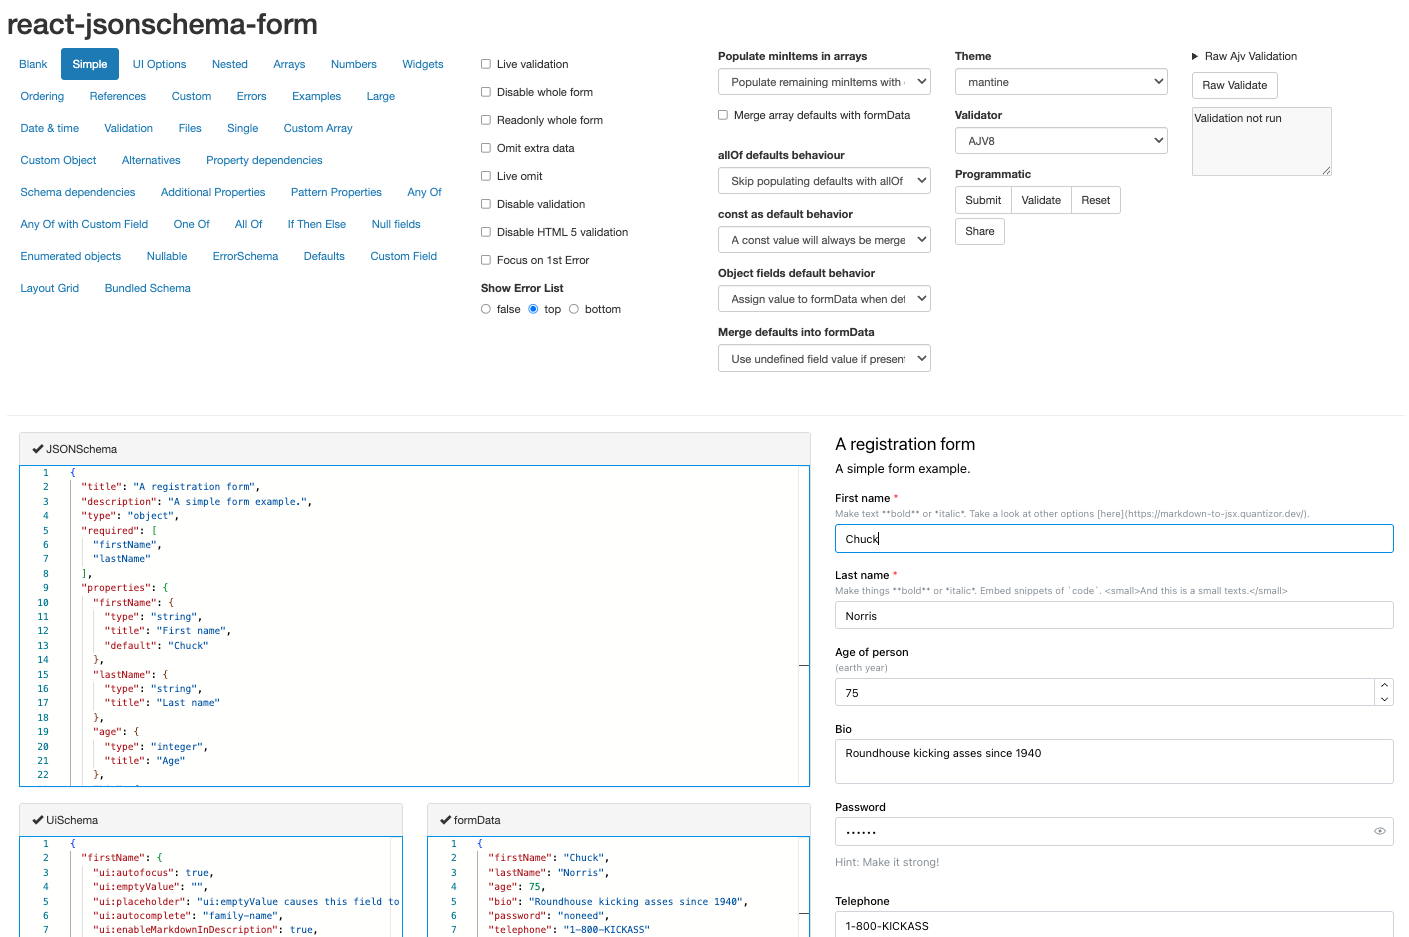
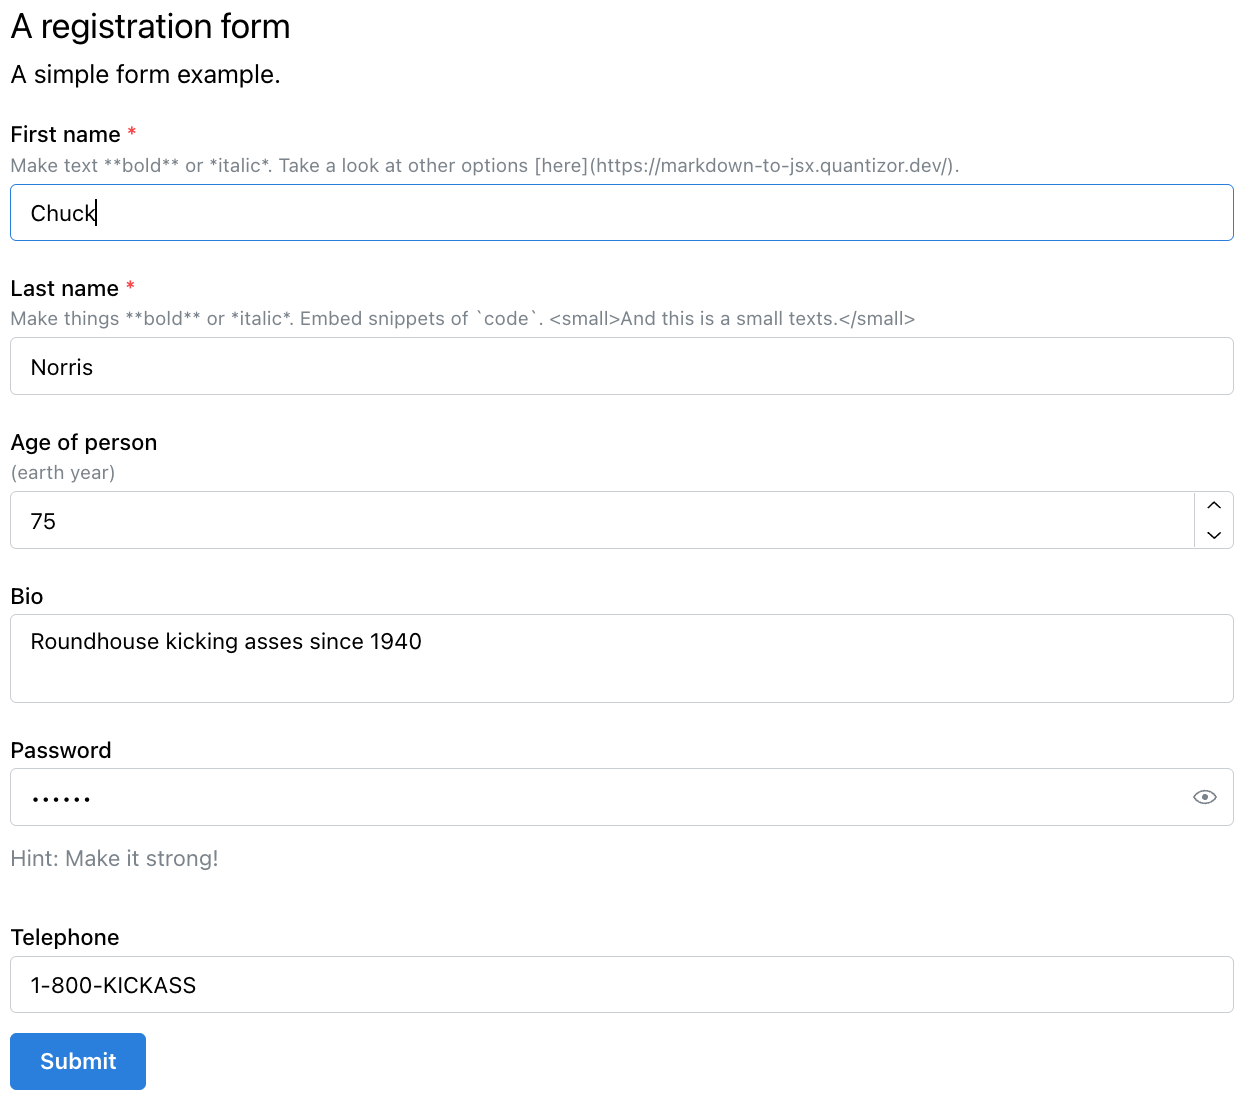
- Updated screenshots to remove playground controls and to make sure all themes showed them in the README

diff --git a/packages/shadcn/README.md b/packages/shadcn/README.md
@@ -20,11 +20,6 @@
     <a href="https://github.com/rjsf-team/react-jsonschema-form/issues">Request Feature</a>
   </p>
 
-
-<p align="center">
-<img src="https://github.com/tuanphung2308/rjsf-shadcn-css/blob/main/shadcn-demo.png?raw=true" alt="Logo" width="720" height="240">
-</p>
-
 <!-- TABLE OF CONTENTS -->
 
 ## Table of Contents
@@ -44,6 +39,8 @@
 ## About The Project
 
 Exports `shadcn` theme, fields and widgets for `react-jsonschema-form`.
+
+[![product-screenshot](./screenshot.png)](https://rjsf-team.github.io/@rjsf/shadcn)
 
 [Live demo](https://react-jsonschema-form-shadcn-boilerplate.vercel.app/)
 

diff --git a/packages/daisyui/README.md b/packages/daisyui/README.md
@@ -12,8 +12,7 @@ This package integrates [DaisyUI](https://daisyui.com/), [Tailwind CSS](https://
 
 ## Screenshots
 
-![DaisyUI Form Example 1](daisy-screenshot1.png)
-![DaisyUI Form Example 2](daisy-screenshot2.png)
+[<img src="./screenshot.png" alt="product-screenshot" width="800" />](https://rjsf-team.github.io/@rjsf/daisyui)
 
 ## Features
 

diff --git a/packages/mui/README.md b/packages/mui/README.md
@@ -47,9 +47,9 @@
 
 ## About The Project
 
-[![@rjsf/mui Screen Shot][product-screenshot]](https://rjsf-team.github.io/@rjsf/mui)
-
 Exports `MUI` version 5 theme, fields, and widgets for `react-jsonschema-form`.
+
+[<img src="./screenshot.png" alt="product-screenshot" width="800" />](https://rjsf-team.github.io/@rjsf/mui)
 
 ### Built With
 

diff --git a/packages/chakra-ui/README.md b/packages/chakra-ui/README.md
@@ -48,7 +48,7 @@
 
 ## About The Project
 
-[![@rjsf/chakra-ui Screen Shot][product-screenshot]](https://rjsf-team.github.io/@rjsf/chakra-ui)
+[<img src="./screenshot.png" alt="product-screenshot" width="800" />](https://rjsf-team.github.io/@rjsf/chakra-ui)
 
 Exports `chakra-ui` theme, fields and widgets for `react-jsonschema-form`.
 

diff --git a/packages/react-bootstrap/README.md b/packages/react-bootstrap/README.md
@@ -41,6 +41,8 @@
 
 Exports `react-bootstrap` theme, fields and widgets for `react-jsonschema-form`.
 
+[<img src="./screenshot.png" alt="product-screenshot" width="800" />](https://rjsf-team.github.io/@rjsf/react-bootstrap)
+
 ### Built With
 
 - [react-jsonschema-form](https://github.com/mozilla-services/react-jsonschema-form/)

diff --git a/packages/fluentui-rc/README.md b/packages/fluentui-rc/README.md
@@ -47,6 +47,8 @@
 
 Fluent UI React Components (v9) theme, fields and widgets for `react-jsonschema-form`.
 
+[<img src="./screenshot.png" alt="product-screenshot" width="800" />](https://rjsf-team.github.io/@rjsf/fluentui-rc)
+
 ### Built With
 
 - [react-jsonschema-form](https://github.com/rjsf-team/react-jsonschema-form/)

diff --git a/packages/semantic-ui/README.md b/packages/semantic-ui/README.md
@@ -51,6 +51,8 @@
 
 Exports `semantic-ui` theme, fields and widgets for `react-jsonschema-form`.
 
+[<img src="./screenshot.png" alt="product-screenshot" width="800" />](https://rjsf-team.github.io/@rjsf/semantic-ui)
+
 ### Built With
 
 - [react-jsonschema-form](https://github.com/rjsf-team/react-jsonschema-form/)

diff --git a/packages/primereact/README.md b/packages/primereact/README.md
@@ -42,6 +42,8 @@
 
 PrimeReact theme, fields, and widgets for `react-jsonschema-form`.
 
+[<img src="./screenshot.png" alt="product-screenshot" width="800" />](https://rjsf-team.github.io/@rjsf/primereact)
+
 ### Built With
 
 - [react-jsonschema-form](https://github.com/rjsf-team/react-jsonschema-form/)

diff --git a/packages/core/README.md b/packages/core/README.md
@@ -47,6 +47,8 @@
 
 Core logic and classic Bootstrap 3 theme for `react-jsonschema-form`.
 
+[<img src="./screenshot.png" alt="product-screenshot" width="800" />](https://rjsf-team.github.io/@rjsf/core)
+
 ### Built With
 
 - [react-jsonschema-form](https://github.com/rjsf-team/react-jsonschema-form/)

diff --git a/packages/mantine/README.md b/packages/mantine/README.md
@@ -50,6 +50,8 @@
 
 `Mantine` theme, fields and widgets for `react-jsonschema-form`.
 
+[<img src="./screenshot.png" alt="product-screenshot" width="800" />](https://rjsf-team.github.io/@rjsf/mantine)
+
 ### Built With
 
 - [react-jsonschema-form](https://github.com/rjsf-team/react-jsonschema-form/)

diff --git a/packages/antd/README.md b/packages/antd/README.md
@@ -47,6 +47,8 @@
 
 Ant Design theme, fields and widgets for `react-jsonschema-form`.
 
+[<img src="./screenshot.png" alt="product-screenshot" width="800" />](https://rjsf-team.github.io/@rjsf/antd)
+
 ### Built With
 
 - [react-jsonschema-form](https://github.com/rjsf-team/react-jsonschema-form/)
